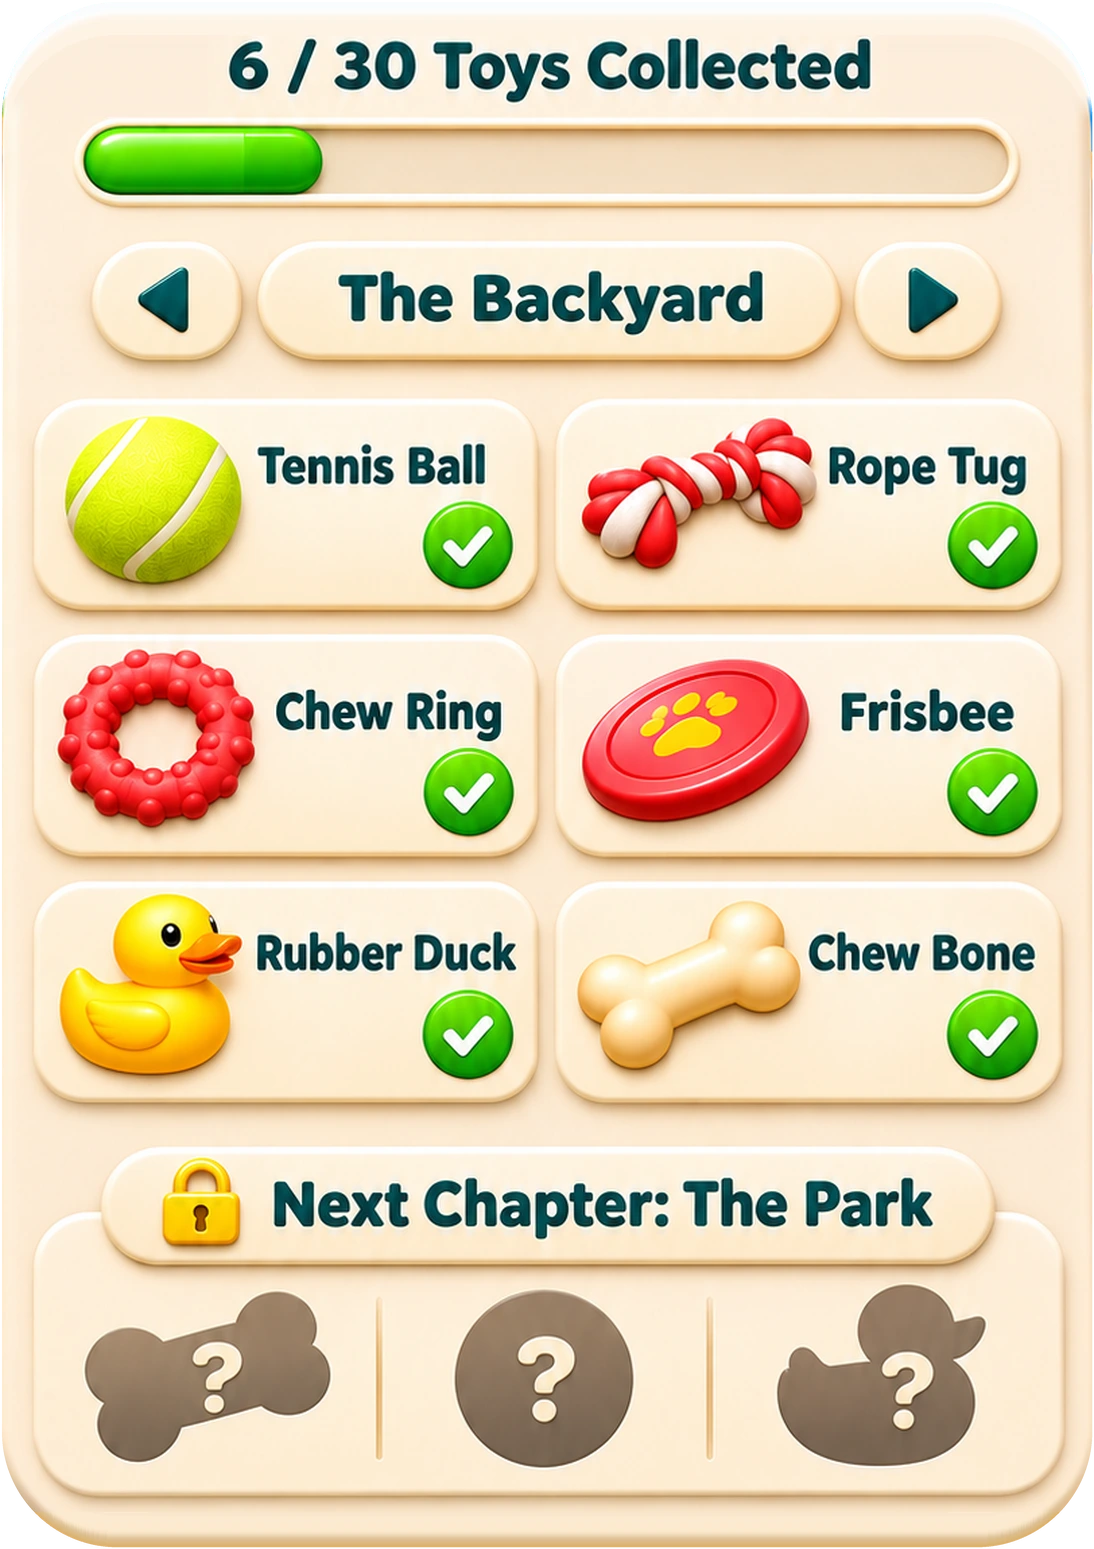
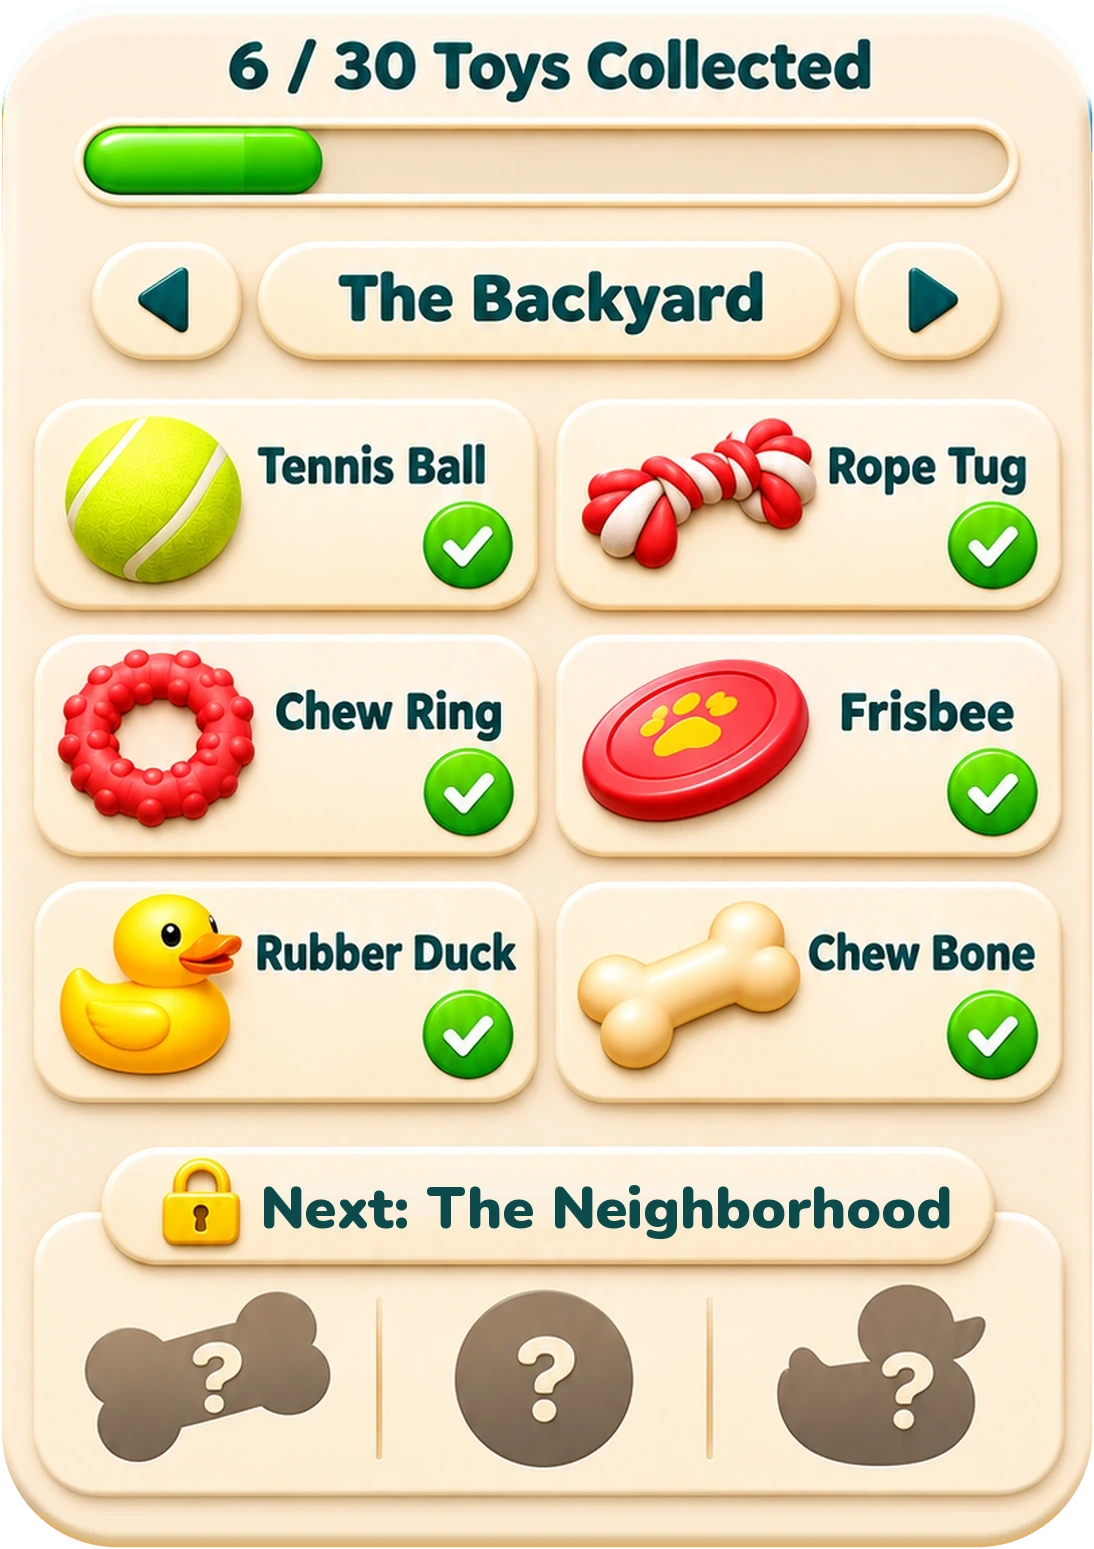
Map opens at current level, Home/Map agree on level, readable locked markers, Toy Box next chapter = Neighborhood
Claude-Session: https://claude.ai/code/session_01HqXo8oXM9XTGkWGnUkjv9K

Changed region(s): [[0.2176, 0.7437, 0.8702, 0.8057]]

diff --git a/bovo10/index.html b/bovo10/index.html
@@ -78,8 +78,8 @@ for(let i=SCENES.length-1;i>=0;i--){const S=SCENES[i];S.el=document.createElemen
  S.cv=document.createElement('canvas');S.fx=document.createElement('canvas');S.art.append(S.cv,S.fx);S.el.appendChild(S.art);sc.appendChild(S.el)}
 function put(S,src,x,y,w){const i=document.createElement('img');i.src=src;i.className='o';i.style.left=x*100+'%';i.style.top=y*100+'%';i.style.width=w*100+'%';S.art.appendChild(i);return i}
 function buttons(){SCENES.forEach((S,si)=>{S.art.querySelectorAll('.o,.n').forEach(e=>e.remove());S.spots.forEach(([x,y,w],k)=>{const L=si*5+k,st=L<cur?'done':L===cur?'cur':'lock';
- const mk=put(S,st==='done'?'mk_done.png':st==='cur'?'mk_cur.png':'mk_lock.png',x,y+w*.18,w);if(st!=='lock'){mk.style.pointerEvents='auto';mk.style.cursor='pointer';mk.onclick=()=>location.href='../game_new.html?lv='+(L+1)}
- if(st!=='lock'){const n=document.createElement('div');n.className='n';n.textContent=L+1;n.style.left=x*100+'%';n.style.top=(y-w*.06)*100+'%';n.style.fontSize=(w*.33*S.art.clientWidth)+'px';S.art.appendChild(n)}})});placePaw(cur)}
+ const mk=put(S,st==='done'?'mk_done.png':st==='cur'?'mk_cur.png':'mk_locknum.png',x,y+Math.max(w,.11)*.18,Math.max(w,.11));if(st!=='lock'){mk.style.pointerEvents='auto';mk.style.cursor='pointer';mk.onclick=()=>location.href='../game_new.html?lv='+(L+1)}
+ {const n=document.createElement('div');if(st==='lock')n.style.opacity='.85';n.className='n';n.textContent=L+1;n.style.left=x*100+'%';n.style.top=(y-w*.06)*100+'%';n.style.fontSize=(Math.max(w,.12)*.33*S.art.clientWidth)+'px';S.art.appendChild(n)}})});placePaw(cur)}
 function placePaw(L){const S=SCENES[Math.floor(L/5)],[x,y,w]=S.spots[L%5];S.art.appendChild(paw);paw.style.left=x*100+'%';paw.style.top=(y-w*.27)*100+'%';paw.style.width=w*.5*100+'%'}
 function size(){const DPR=Math.min(2.5,devicePixelRatio||1),H=sc.clientHeight,avail=H-innerWidth*327/1170*.92;
  for(const S of SCENES){let w=innerWidth,h=w*S.IH/S.IW;if(h<avail){h=avail;w=h*S.IW/S.IH}
@@ -96,7 +96,7 @@ function initGL(S){const gl=S.cv.getContext('webgl',{alpha:false,antialias:false
  return Promise.all([tex('scene.png',0,'tB'),tex('masks.png',1,'tM'),tex('skyclean.png',2,'tS'),tex('clouds.png',3,'tC'),tex('cloudrm.png',4,'tR')]).then(()=>{if(S.gl!==gl)return;gl.uniform1f(U('chf'),S.CH/S.IH);S.ready=1})}
 SCENES.forEach(S=>{S.tw=S.tw.map(([x,y])=>({x,y,ph:Math.random()*6.3,sp:.7+Math.random()*.8}));S.pol=[...Array(18)].map(()=>({x:Math.random(),y:.45+Math.random()*.5,vx:(Math.random()-.5)*.004,vy:-.004-Math.random()*.006,ph:Math.random()*6.3}))});
 size();addEventListener('resize',size);
-Promise.resolve().then(()=>{sc.scrollTop=sc.scrollHeight;let t0=performance.now(),last=t0;
+Promise.resolve().then(()=>{const S0=SCENES[Math.floor(cur/5)];sc.style.scrollSnapType='none';sc.scrollTop=S0.el.offsetTop;requestAnimationFrame(()=>sc.style.scrollSnapType='');let t0=performance.now(),last=t0;
  (function frame(now){const t=window.__t!=null?window.__t:(now-t0)/1000,dt=Math.min(.05,(now-last)/1000);last=now;on+=((motion?1:0)-on)*Math.min(1,dt*4);
   const vh=sc.clientHeight;
   for(const S of SCENES){const r=S.el.getBoundingClientRect();if(r.bottom>-vh*1.2&&r.top<vh*2.2)ensure(S);else drop(S);if(r.bottom<0||r.top>vh||!S.ready)continue;const gl=S.gl,U=S.U;

diff --git a/bovo11/index.html b/bovo11/index.html
@@ -35,7 +35,7 @@ const t1=document.createElement('div');t1.className='t';t1.textContent='5';/*gbb
 const t2=document.createElement('div');t2.className='t';t2.textContent='430';try{const g=JSON.parse(localStorage.getItem('gbb')||'{}');if(g.bones!=null)t2.textContent=g.bones}catch(e){}t2.style.justifyContent='center';place(t2,640,222,190,123);
 const lv=document.createElement('div');lv.id='lvl';lv.textContent='Level 1';place(lv,145,2318,1001,0);lv.style.bottom=V(2796-2318-80);
 function RRH(){return RH}
-let lvlN=1;try{const g=JSON.parse(localStorage.getItem('gbb_play')||'{}');lvlN=Object.keys(g.stars||{}).length+1}catch(e){}lv.textContent='Level '+lvlN;lv.style.height='auto';
+let lvlN=1;try{const g=JSON.parse(localStorage.getItem('gbb_play')||'{}');let mx=0;for(const k in (g.stars||{}))mx=Math.max(mx,+k+1);lvlN=Math.min(100,mx+1)}catch(e){}lv.textContent='Level '+lvlN;lv.style.height='auto';
 const go=u=>()=>location.href=u;
 document.getElementById('play').onclick=()=>location.href='../game_new.html?lv='+lvlN;document.getElementById('map').onclick=go('../bovo10/index.html');document.getElementById('toys').onclick=go('toys.html');document.getElementById('shop').onclick=go('shop.html');document.getElementById('gear').onclick=go('settings.html');document.getElementById('friends').onclick=go('friends.html');
 function size(){const DPR=Math.min(2.5,devicePixelRatio||1);let w=innerWidth,h=w*IH/IW;if(h<innerHeight){h=innerHeight;w=h*IW/IH}else if(h>innerHeight*1.04){h=innerHeight;w=h*IW/IH}stage.classList.toggle('fit',w<innerWidth-2);ui.style.width=Math.min(w,innerWidth)+'px';

diff --git a/bovo11/toys.html b/bovo11/toys.html
@@ -22,7 +22,7 @@ html,body{margin:0;height:100%;overflow:hidden;background:#3a2412;-webkit-user-s
 </style></head><body>
 <div id="bgb"></div>
 <div id="stage"><img id="bgi" src="toys/bg.jpg?v=3"><canvas id="fx"></canvas>
-<img id="title" class="L" src="toys/title.webp?v=1"><img id="panel" class="L" src="toys/panel.webp?v=3"></div>
+<img id="title" class="L" src="toys/title.webp?v=1"><img id="panel" class="L" src="toys/panel.webp?v=4"></div>
 <div id="ui"></div><div id="toast"></div>
 <script>
 'use strict';
@@ -38,7 +38,7 @@ const toast=m=>{const t=document.getElementById('toast');t.textContent=m;t.class
 // tap areas from the old page (old 1290-coords) mapped onto the new panel
 function oldHit([x,y,w,h],act){const d=document.createElement('div');d.className='hit';put(d,PX+(x-100)*k,PY+(y-742)*k,w*k,h*k);d.onclick=act;stage.appendChild(d)}
 oldHit([180,975,160,120],()=>toast('More chapters coming soon!'));oldHit([940,975,170,120],()=>toast('More chapters coming soon!'));
-oldHit([100,2060,1090,170],()=>toast('Finish The Backyard to unlock The Park!'));
+oldHit([100,2060,1090,170],()=>toast('Finish The Backyard to unlock The Neighborhood!'));
 // HUD + nav pinned to the screen like the Home page
 let UW=390;const V=v=>v/RW*UW+'px',PL=[];
 function place(el,x,y,w,h){PL.push([el,x,y,w,h]);ui.appendChild(el)}
